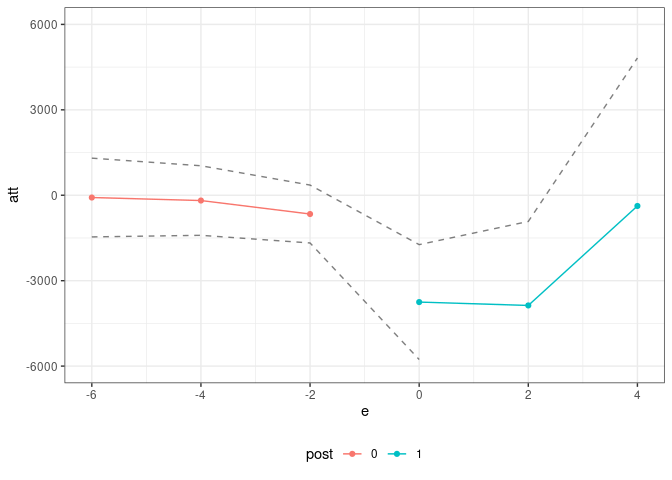
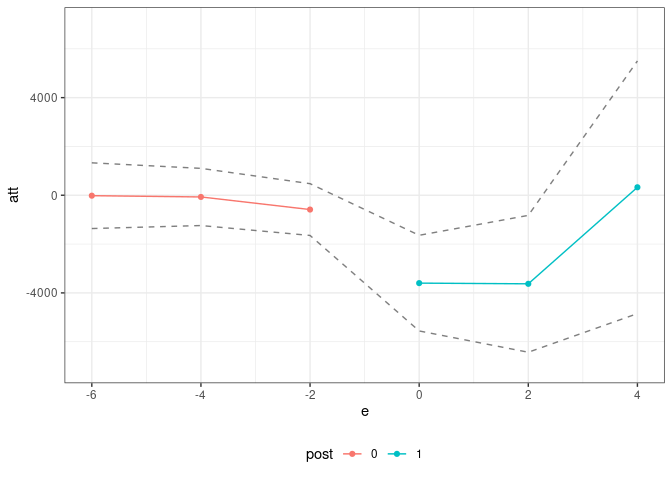
updated readme

diff --git a/README.md b/README.md
@@ -46,20 +46,20 @@ summary(res)
 #> 
 #> Overall ATT:  
 #>        ATT    Std. Error     [ 90%  Conf. Int.]  
-#>  -3913.851      1134.183  -5779.416   -2048.285 *
+#>  -3913.851      1182.007  -5858.079   -1969.622 *
 #> 
 #> 
 #> Dynamic Effects:
 #>  Event Time   Estimate Std. Error     [90%  Conf. Band]  
-#>          -6   -63.8360   935.2442 -1602.176   1474.5038  
-#>          -4   -63.4326   718.9872 -1246.061   1119.1961  
-#>          -2  -664.5203   599.9842 -1651.407    322.3659  
-#>           0 -3848.8739  1012.5293 -5514.336  -2183.4114 *
-#>           2 -4179.1319  1517.3515 -6674.953  -1683.3107 *
-#>           4 -1454.0791  2692.8549 -5883.431   2975.2730  
+#>          -6   -63.8360   856.9402 -1473.377   1345.7051  
+#>          -4   -63.4326   736.7646 -1275.303   1148.4374  
+#>          -2  -664.5203   592.2105 -1638.620    309.5792  
+#>           0 -3848.8739  1026.9530 -5538.061  -2159.6864 *
+#>           2 -4179.1319  1523.2116 -6684.592  -1673.6717 *
+#>           4 -1454.0791  2721.0421 -5929.795   3021.6368  
 #> ---
 #> Signif. codes: `*' confidence band does not cover 0
-ggpte(res) + ylim(c(-6000,6000))
+ggpte(res) + ylim(c(-7000,7000))
 ```
 
 <img src="man/figures/README-unnamed-chunk-4-1.png" width="100%" />
@@ -85,7 +85,7 @@ lt_res <- linear_trends(yname="earn",
                         tname="year",
                         idname="id",
                         data=job_displacement_data,
-                        xformla=~1,
+                        xformla=~EDUC + race + gender,
                         anticipation=1,
                         cband=FALSE,
                         alp=0.10,
@@ -97,20 +97,20 @@ summary(lt_res)
 #> 
 #> Overall ATT:  
 #>        ATT    Std. Error     [ 90%  Conf. Int.]  
-#>  -3610.586      1293.201  -5737.712   -1483.459 *
+#>  -3463.467      1239.059  -5501.538   -1425.396 *
 #> 
 #> 
 #> Dynamic Effects:
 #>  Event Time   Estimate Std. Error     [90%  Conf. Band]  
-#>          -6   -80.0095   840.6203 -1462.707   1302.6878  
-#>          -4  -185.5270   742.5218 -1406.867   1035.8127  
-#>          -2  -659.0171   617.9471 -1675.450    357.4154  
-#>           0 -3751.3352  1226.3774 -5768.547  -1734.1238 *
-#>           2 -3869.5496  1793.1055 -6818.946   -920.1535 *
-#>           4  -376.1558  3158.6755 -5571.715   4819.4030  
+#>          -6   -17.6954   818.3984 -1363.841   1328.4503  
+#>          -4   -69.4965   712.1606 -1240.897   1101.9034  
+#>          -2  -586.0360   644.8390 -1646.702    474.6297  
+#>           0 -3599.9237  1191.2933 -5559.427  -1640.4205 *
+#>           2 -3628.0465  1704.2076 -6431.218   -824.8745 *
+#>           4   326.6318  3146.7251 -4849.270   5502.5340  
 #> ---
 #> Signif. codes: `*' confidence band does not cover 0
-ggpte(lt_res) + ylim(c(-6000,6000))
+ggpte(lt_res) + ylim(c(-7000,7000))
 ```
 
 <img src="man/figures/README-unnamed-chunk-5-1.png" width="100%" />
